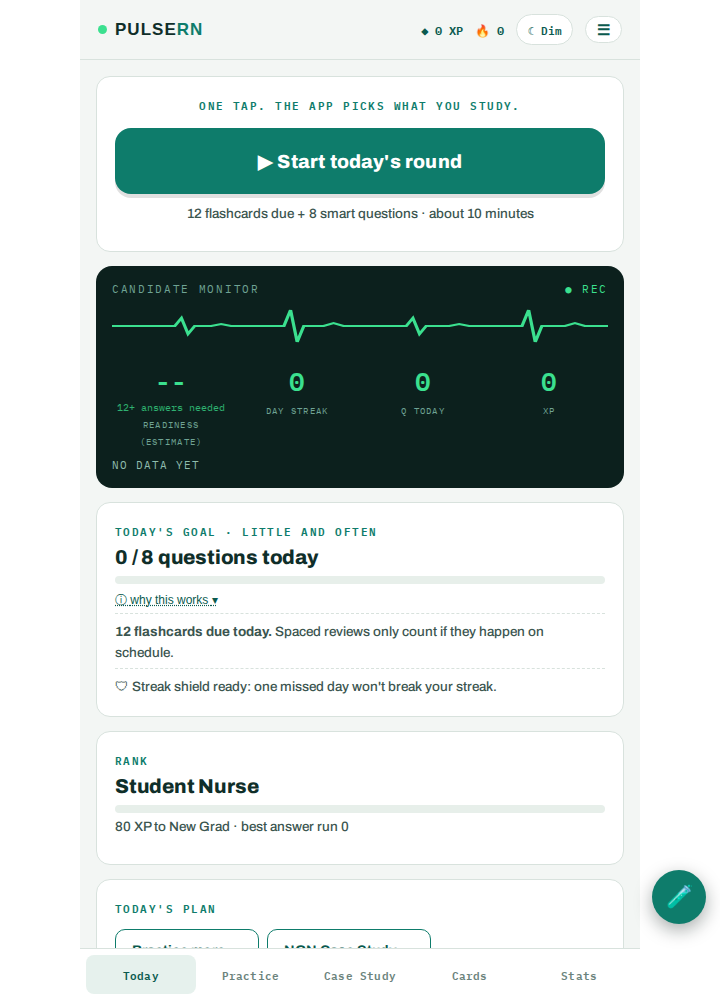
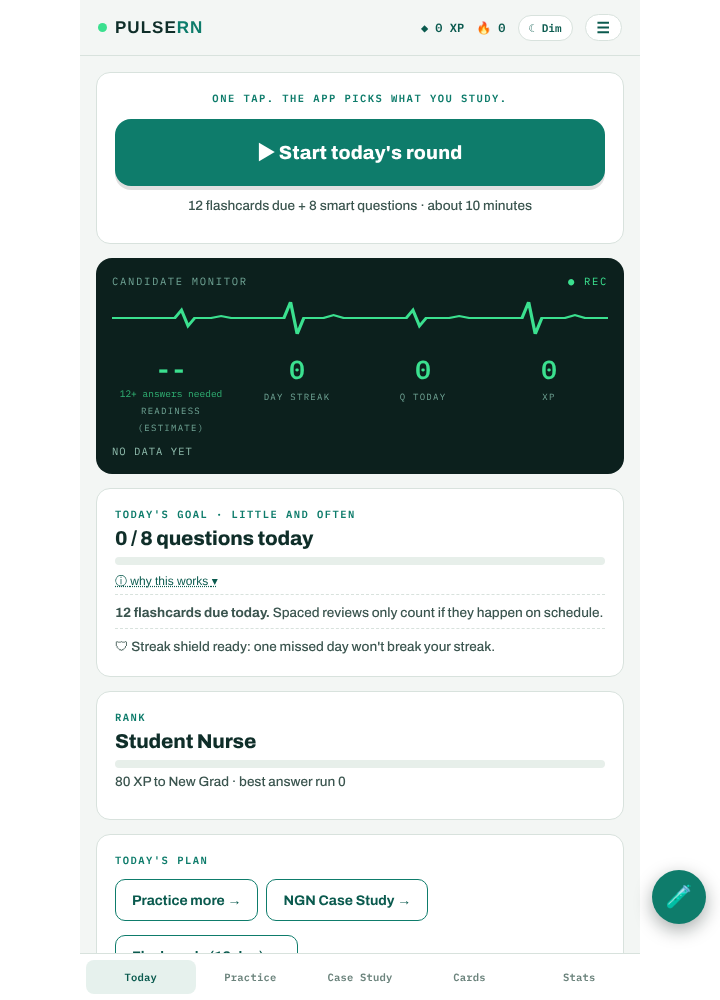
pulsern: refresh product screenshots; Sol runs the search-release review
- The search gate's product-image check failed because the homepage
  screenshots no longer matched a fresh capture of the app (new review and
  scoring text). The three screenshots and their manifest are refreshed
  from a deterministic capture of the current App.jsx; no learner data.
- The search gate's AI review now uses the owner's reviewer (GPT 6.1 Sol)
  instead of GPT-4.1, without temperature and with room to reason; its
  report is printed in the job log.
- Removes two pairing dry-run reports a test run had left in the tree.

Claude-Session: https://claude.ai/code/session_01J3tLe4y1DncJzBJAjxdcpx

diff --git a/pulsern/reports/diagram-map/run-2026-10-28T16-46-40-632Z.md b/pulsern/reports/diagram-map/run-2026-10-28T16-46-40-632Z.md
@@ -1,7 +1,7 @@
 # Diagram pairing run — complete
 
 - Reviewer: `openai/gpt-6.1-sol`
-- Started: 2026-10-28T16:31:15.572Z
+- Started: 2026-10-28T16:46:40.632Z
 - Spend: $0.0000 across 0 calls · cap $15
 - Candidates: none
 - Asked this run: 0 · attached 0 (0 with confirmed values) · rejected 0
